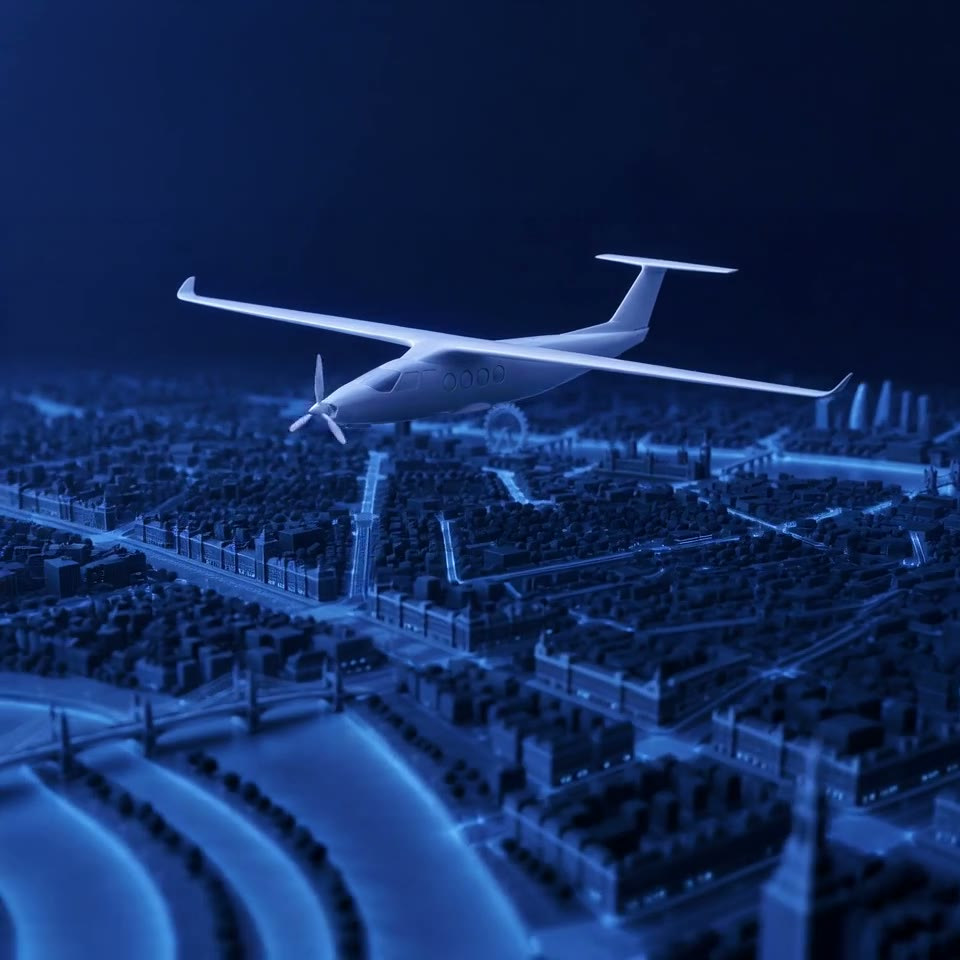
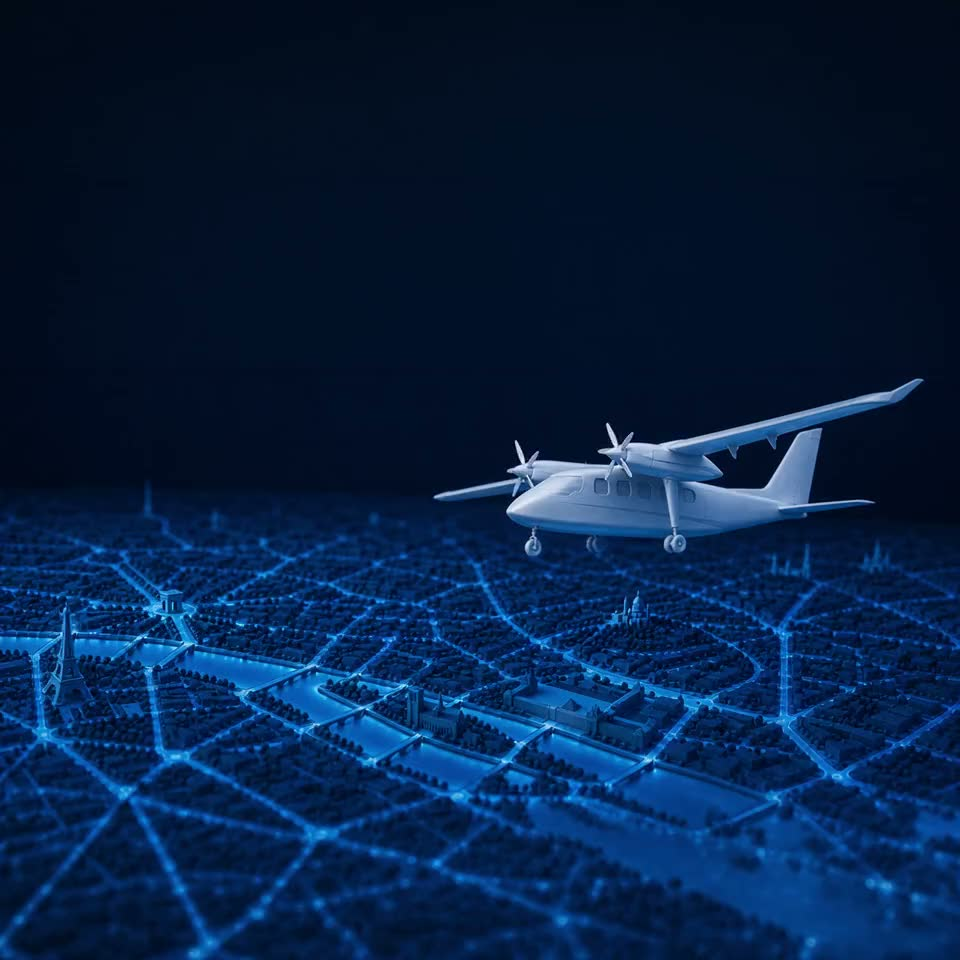
keep only the MD clip in the Future Routes hero
Drop the Vaeridion/London clip from the rotation and repoint the poster at
the first frame of the Paris clip, so the still that shows before playback
(and whenever autoplay is refused) matches the video that actually plays.

diff --git a/futureroutes/index.html b/futureroutes/index.html
@@ -1216,9 +1216,9 @@
     <!-- Hero clips rotate; add or reorder them in data-clips -->
     <div class="hero-bg">
       <video id="hero-video" autoplay muted playsinline webkit-playsinline preload="auto"
-             poster="/futureroutes/hero-poster.jpg?v=3"
-             src="/futureroutes/hero-1-london.mp4?v=3"
-             data-clips="/futureroutes/hero-1-london.mp4?v=3,/futureroutes/hero-2-paris.mp4?v=3"></video>
+             poster="/futureroutes/hero-poster.jpg?v=4"
+             src="/futureroutes/hero-2-paris.mp4?v=4"
+             data-clips="/futureroutes/hero-2-paris.mp4?v=4"></video>
     </div>
     <div class="hero-overlay"></div>
     <div class="hero-content">
